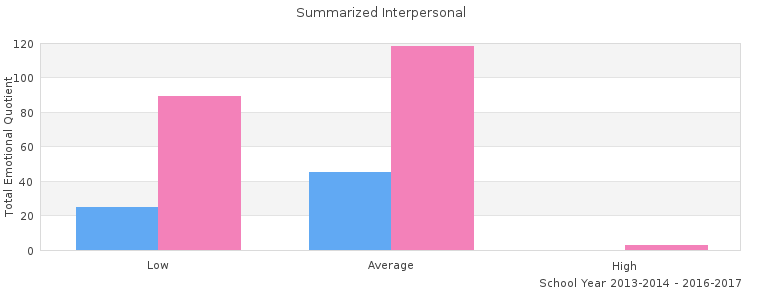
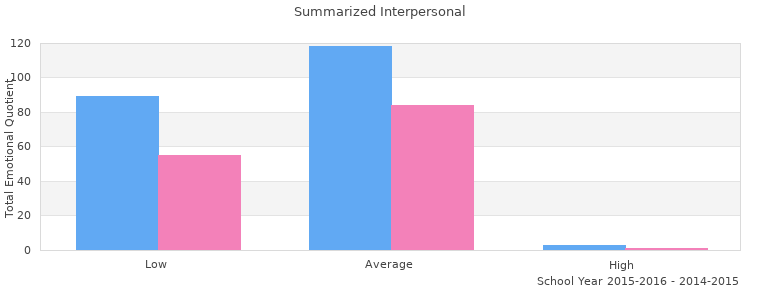
updated

diff --git a/public/assets/js/dashboard.js b/public/assets/js/dashboard.js
@@ -370,32 +370,40 @@ function assignXY(eq, gwa){
 }
 
 function interpretResult(data){
-
+console.log(data);
+ if(data!=0){
 	$("#currentInterpret").empty();
+    $("#currentSYear").empty();
+
 	 if(data>=0 && data<=0.19){
+        $("#currentSYear").append('School year 2016-2017');
         $("#currentInterpret").append('The relationship between the Total Emotional Quotient and Academic performance of the students is <u><i><b>Very Weak</b></u></i>' + ' and has a <u><i><b>Negative</b></u></i> relationship.');   
-    }else if(data>=0.20 && data<=0.39){
+    }else if(data>=0.20 && data<=0.39){$("#currentSYear").append('School year 2016-2017');
         $("#currentInterpret").append('The relationship between the Total Emotional Quotient and Academic performance of the students is <u><i><b>Weak</b></u></i>' + ' and has a <u><i><b>Negative</b></u></i> relationship.');    
-    }else if(data>=0.40 && data<=0.59){
+    }else if(data>=0.40 && data<=0.59){$("#currentSYear").append('School year 2016-2017');
         $("#currentInterpret").append('The relationship between the Total Emotional Quotient and Academic performance of the students is <u><i><b>Moderate</b></u></i>' + ' and has a <u><i><b>Negative</b></u></i> relationship.');    
-    }else if(data>=0.60 && data<=0.79){
+    }else if(data>=0.60 && data<=0.79){$("#currentSYear").append('School year 2016-2017');
         $("#currentInterpret").append('The relationship between the Total Emotional Quotient and Academic performance of the students is <u><i><b>Strong</b></u></i>' + ' and has a <u><i><b>Negative</b></u></i> relationship.');  
-    }else if(data>=0.80 && data<=1.0){
+    }else if(data>=0.80 && data<=1.0){$("#currentSYear").append('School year 2016-2017');
         $("#currentInterpret").append('The relationship between the Total Emotional Quotient and Academic performance of the students is <u><i><b>Very Strong</b></u></i>' + ' and has a <u><i><b>Negative</b></u></i> relationship.'); 
     }
 
 
     if(data<=-0 && data>=-0.19){
         $("#currentInterpret").append('The relationship between the Total Emotional Quotient and Academic performance of the students is <u><i><b>Very Weak</b></u></i>' + ' and has a <u><i><b>Positive</b></u></i> relationship.');   
-    }else if(data<=-0.20 && data>=-0.39){
+    }else if(data<=-0.20 && data>=-0.39){$("#currentSYear").append('School year 2016-2017');
         $("#currentInterpret").append('The relationship between the Total Emotional Quotient and Academic performance of the students is <u><i><b>Weak</b></u></i>' + ' and has a <u><i><b>Positive</b></u></i> relationship.');    
-    }else if(data<=-0.40 && data>=-0.59){
+    }else if(data<=-0.40 && data>=-0.59){$("#currentSYear").append('School year 2016-2017');
         $("#currentInterpret").append('The relationship between the Total Emotional Quotient and Academic performance of the students is <u><i><b>Moderate</b></u></i>' + ' and has a <u><i><b>Positive</b></u></i> relationship.');    
-    }else if(data<=-0.60 && data>=-0.79){
+    }else if(data<=-0.60 && data>=-0.79){$("#currentSYear").append('School year 2016-2017');
         $("#currentInterpret").append('The relationship between the Total Emotional Quotient and Academic performance of the students is <u><i><b>Strong</b></u></i>' + ' and has a <u><i><b>Positive</b></u></i> relationship.');  
-    }else if(data<=-0.80 && data>=-1.0){
+    }else if(data<=-0.80 && data>=-1.0){$("#currentSYear").append('School year 2016-2017');
         $("#currentInterpret").append('The relationship between the Total Emotional Quotient and Academic performance of the students is <u><i><b>Very Strong</b></u></i>' + ' and has a <u><i><b>Positive</b></u></i> relationship.'); 
     }
+ }else{
+    $("#currentInterpret").empty();
+    $("#currentSYear").empty();
+ }
 }
 
 

diff --git a/public/assets/js/filterstudents-extension.js b/public/assets/js/filterstudents-extension.js
@@ -32,7 +32,13 @@ function compareGraph(){
             var firstYear = getStudentInfo(data['a']);
             var secondYear = getStudentInfo(data['b']);
             var highElem;
-            if(firstYear.length < secondYear.length){ highElem = secondYear; }else if(firstYear.length > secondYear.length){ highElem = firstYear;}
+            if(firstYear.length < secondYear.length){
+             highElem = secondYear; 
+            }else if(firstYear.length > secondYear.length){
+              highElem = firstYear;
+            }else{
+              highElem = firstYear;
+            }
 
             var FirstGWA = setDataSlice(firstYear, 'gwa');
             var SecondGWA = setDataSlice(secondYear, 'gwa');
@@ -133,6 +139,10 @@ var comparedPearsonResult = [];
       comparedPearsonResult.push(values);
   });
 
+var intrapret = "intrapersonalinterpret";
+comparedInterpret(intrapret);
+var intrapretbar = "intrapersonal";
+showBarInterpret(intrapretbar);
 
 
 // $("#comparedIntra").append('Compared Intrapersonal: ' + pearsonResults(secondIntrapersonal));
@@ -198,7 +208,8 @@ function countBar(key) {
 }
 
 function showBarInterpret(key) {
-
+console.log(key);
+console.log(countBarResult[key]);
 // $("#nBarInterpret").empty();
  $("#comparedBarInterpret").empty();
  $("#comparedBarInterpret").append("<b>School year: " + $("#exampleFormControlSelect2").val() + "</b>"+ countBarResult[key]);

diff --git a/public/assets/js/radardata.js b/public/assets/js/radardata.js
@@ -247,7 +247,9 @@ function getPredictionNew(eq,y,s){
 
 function getPrediction(eq,y,s){
     var predict = y+(s*eq);
-    return $("#predictInterpret").append('<p> Using Linear Regression, we came up with a predictive model <br> <b>GWA</b> = '+y+ '+(' +s+ ' * <b>Total EQ</b>) <br><br> Based on his/her current GWA and Total EQ, his/her predicted GWA for next school year is: <b>'+ predict+'</b></p>');
+    var value = parseFloat(predict).toFixed(3);
+    console.log(value);
+    return $("#predictInterpret").append('<p> Using Linear Regression, the prediction model:  <br> <b>GWA</b> = '+y+ '+(' +s+ ' * <b>Total EQ</b>) <br><br> His/Her current GWA and Total EQ, his/her predicted GWA for next school year is: <b>'+ value+'</b></p>');
 }
 
 function pearsonResults(values) {

diff --git a/public/assets/js/filterstudents.js b/public/assets/js/filterstudents.js
@@ -214,7 +214,7 @@ correlationResult ={
     mood          : countBarScores(moodCopy),
     }
 
-
+console.log(numberBarScores.intrapersonal);
 
 
 
@@ -239,7 +239,10 @@ var reportAllEq = [];
     
 generateReportTable(reportAllEq);
 
-
+var intrapret = "intrapersonalinterpret";
+yearInterpret(intrapret);
+var intrapretbar = "intrapersonal";
+displayBarScores(intrapretbar);
 
 
 
@@ -313,7 +316,8 @@ graphAdaptabilityBar(adaptabilityPerfectCopy);
 //***list of functions***
 
 function displayBarScores(key) {
-
+console.log(key);
+console.log(numberBarScores.key);
   $("#nBarInterpret").empty();
   $("#nBarInterpret").append("<br><b>School year:  " + $("#exampleFormControlSelect1").val() + "</b>" + numberBarScores[key]);
 

diff --git a/jpGraph/ease.php b/jpGraph/ease.php
@@ -647,9 +647,9 @@ class PrintInformation{
 					}
 
 					if($correlatedData[$data[$x1]] > 0){
-						$relationship = "Negative (GWA is decreasing while ".$eq." is also increasing or Vice Versa)";
+						$relationship = "Positive (GWA is decreasing while ".$eq." is also increasing or Vice Versa)";
 					}else{
-						$relationship = "Positive (GWA is increasing while ".$eq." is also increasing)";	
+						$relationship = "Negative (GWA is increasing while ".$eq." is also increasing)";	
 					}
 					$correlationValue = abs($correlatedData[$data[$x1]]);
 					if($correlationValue >= 0.00 && $correlationValue <= 0.19){
@@ -774,9 +774,9 @@ class PrintInformation{
 				}
 
 				if($correlation[$data[$flag]] > 0){
-					$relationship = "Negative (GWA is decreasing while ".$eq." is also increasing or Vice Versa)";
+					$relationship = "Positive (GWA is decreasing while ".$eq." is also increasing or Vice Versa)";
 				}else{
-					$relationship = "Positive (GWA is increasing while ".$eq." is also increasing)";	
+					$relationship = "Negative (GWA is increasing while ".$eq." is also increasing)";	
 				}
 				$correlationValue = abs($correlation[$data[$flag]]);
 				if($correlationValue >= 0.00 && $correlationValue <= 0.19){
@@ -836,7 +836,7 @@ class PrintInformation{
 									Low: 50-84 
 									Average: 85-114 
 									High: 115-170');
-				$pdf->Ln(5);
+				$pdf->Ln(15);
 
 				$pdf->Write(5,' School Year '. $_GET['q1']. '
 								Number of Students:' .$counting. '

diff --git a/resources/views/content/index.blade.php b/resources/views/content/index.blade.php
@@ -12,7 +12,7 @@
                 <div class="card text-white boxshadow bg-primary";">
                     <div class="card-body pb-0">
                         <h4 class="mb-0">
-                            <span id="currentSY" style="font-size: 30pt;"><i class="fa fa-line-chart" style="color:white; margin-right: 1%;"></i>School year 2016-2017 <br><span id="currentSY" style="font-size: 20pt;">Current year result: </span><br></span>
+                            <span id="currentSY" style="font-size: 30pt;"><i class="fa fa-line-chart" style="color:white; margin-right: 1%;"></i><span id="currentSYear"></span> <br><span id="currentSY" style="font-size: 20pt;">Current year result: </span><br></span>
                         </h4>
                     
 

diff --git a/resources/views/content/filterStudents.blade.php b/resources/views/content/filterStudents.blade.php
@@ -98,7 +98,7 @@
 
  <div class="tabbable full-width-tabs">
   <ul class="nav nav-tabs" style="background-color: #e6e6e6; border-top-left-radius: 4px; border-top-right-radius: 4px;">
-    <li onclick ="yearInterpret('intrapersonalinterpret'); comparedInterpret('intrapersonalinterpret');"><a data-toggle="tab" href="#intrapersonalContainer">Intrapersonal</a></li>
+    <li  class="active" onclick ="yearInterpret('intrapersonalinterpret'); comparedInterpret('intrapersonalinterpret');"><a data-toggle="tab" href="#intrapersonalContainer">Intrapersonal</a></li>
 
 
     <li onclick ="yearInterpret('interpersonalinterpret'); comparedInterpret('interpersonalinterpret');"><a data-toggle="tab" href="#interpersonalContainer">Interpersonal </a></li>

diff --git a/jpGraph/student_profile.php b/jpGraph/student_profile.php
@@ -337,7 +337,7 @@ class PrintInformation{
 		$pdf->Write(5,'Interpretation:
 					   Using Linear Regression, we came up with a predictive model 
 					   GWA = '. number_format($prediction[1], 5) .'+('. number_format($prediction[0], 5) .' * Total EQ) 
-					   Based on his/her current GWA and Total EQ, his/her predicted GWA for next school year is: '.number_format($prediction[2], 5));
+					   Based on his/her current GWA and Total EQ, his/her predicted GWA for next school year is: '.number_format($prediction[2], 3));
 
 		 $pdf->Output('D', " Student Information.pdf");
 
